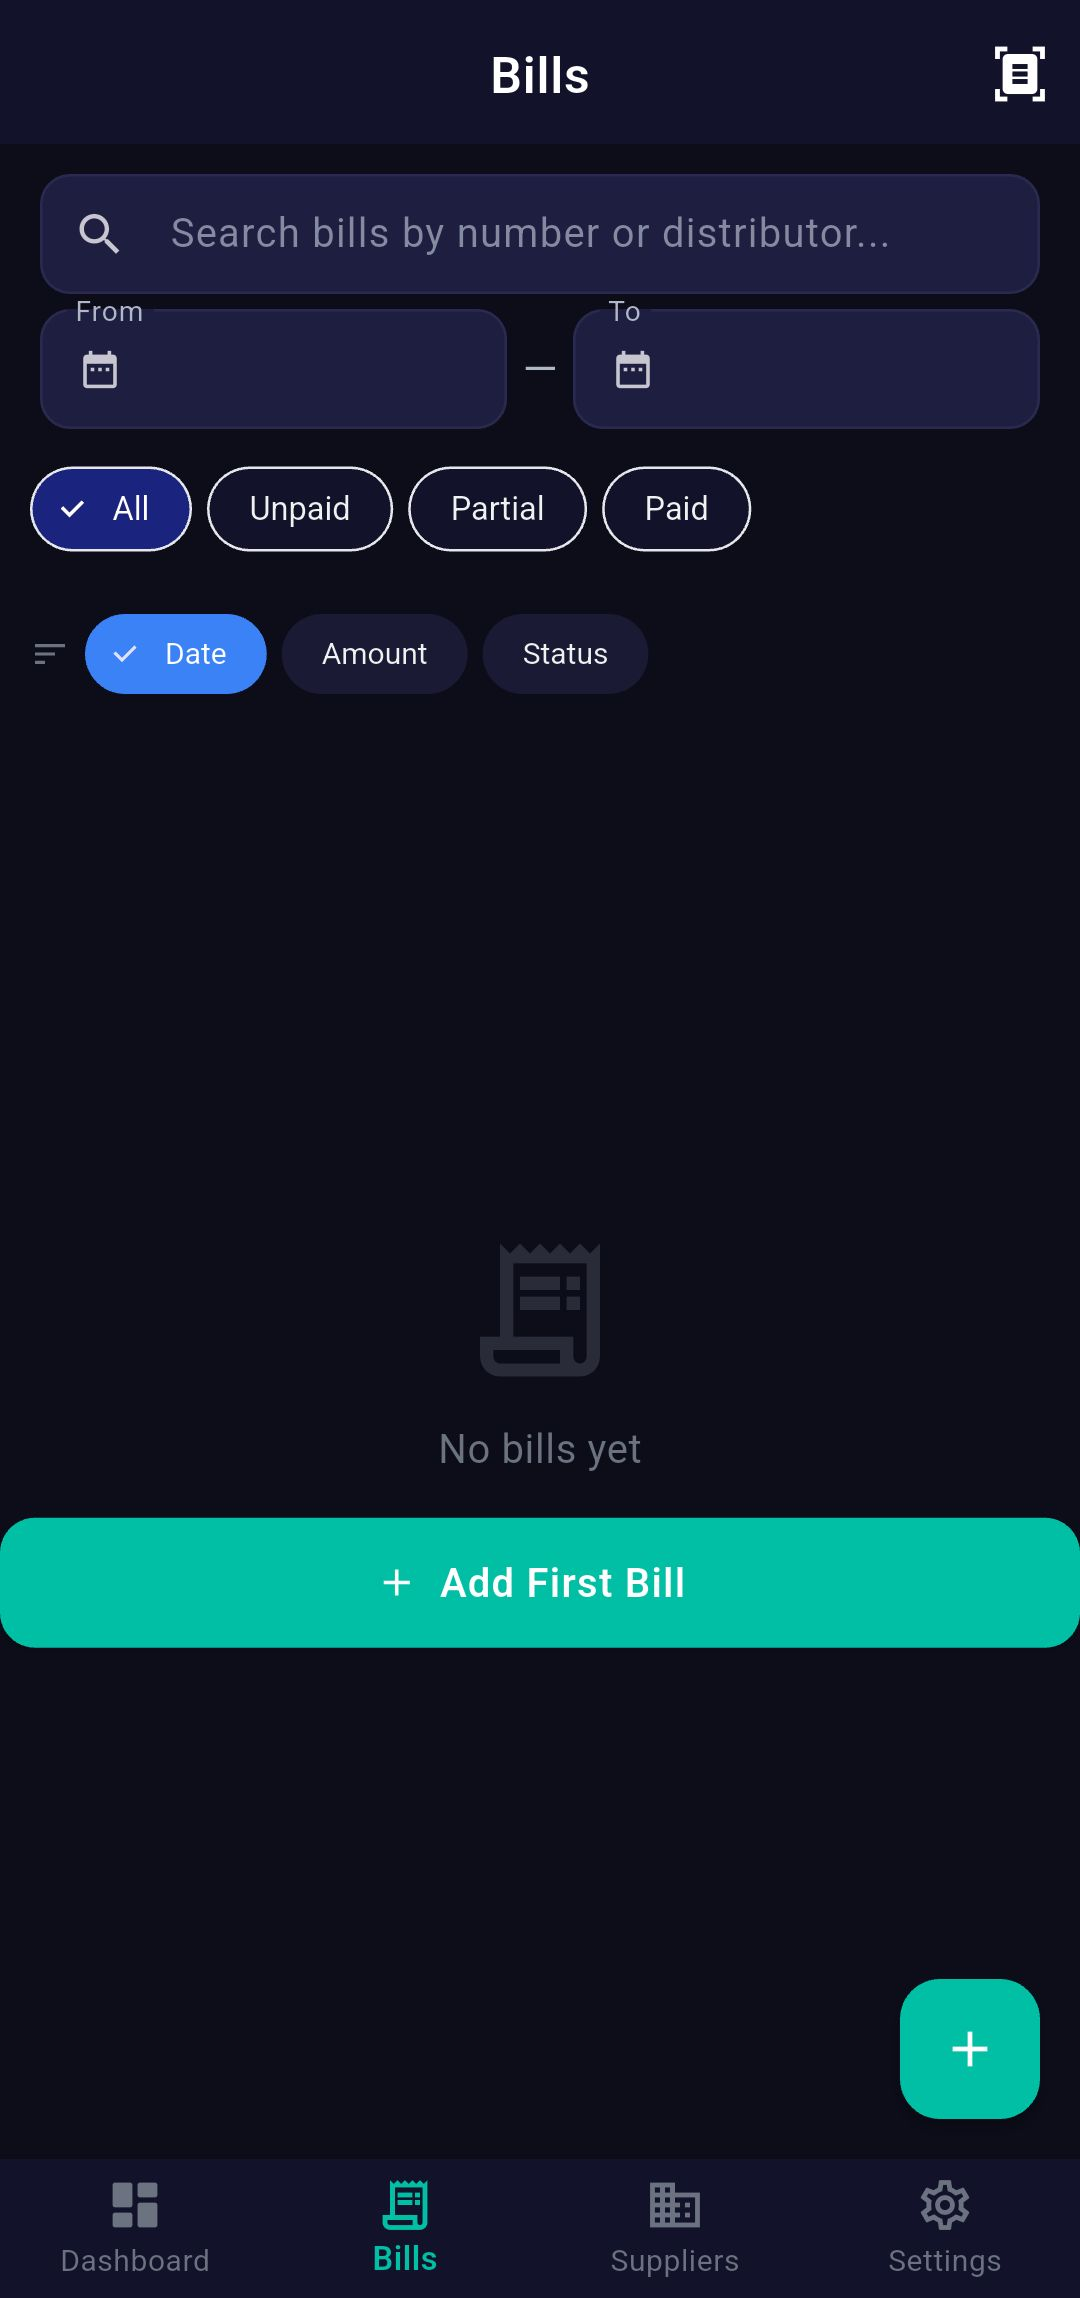
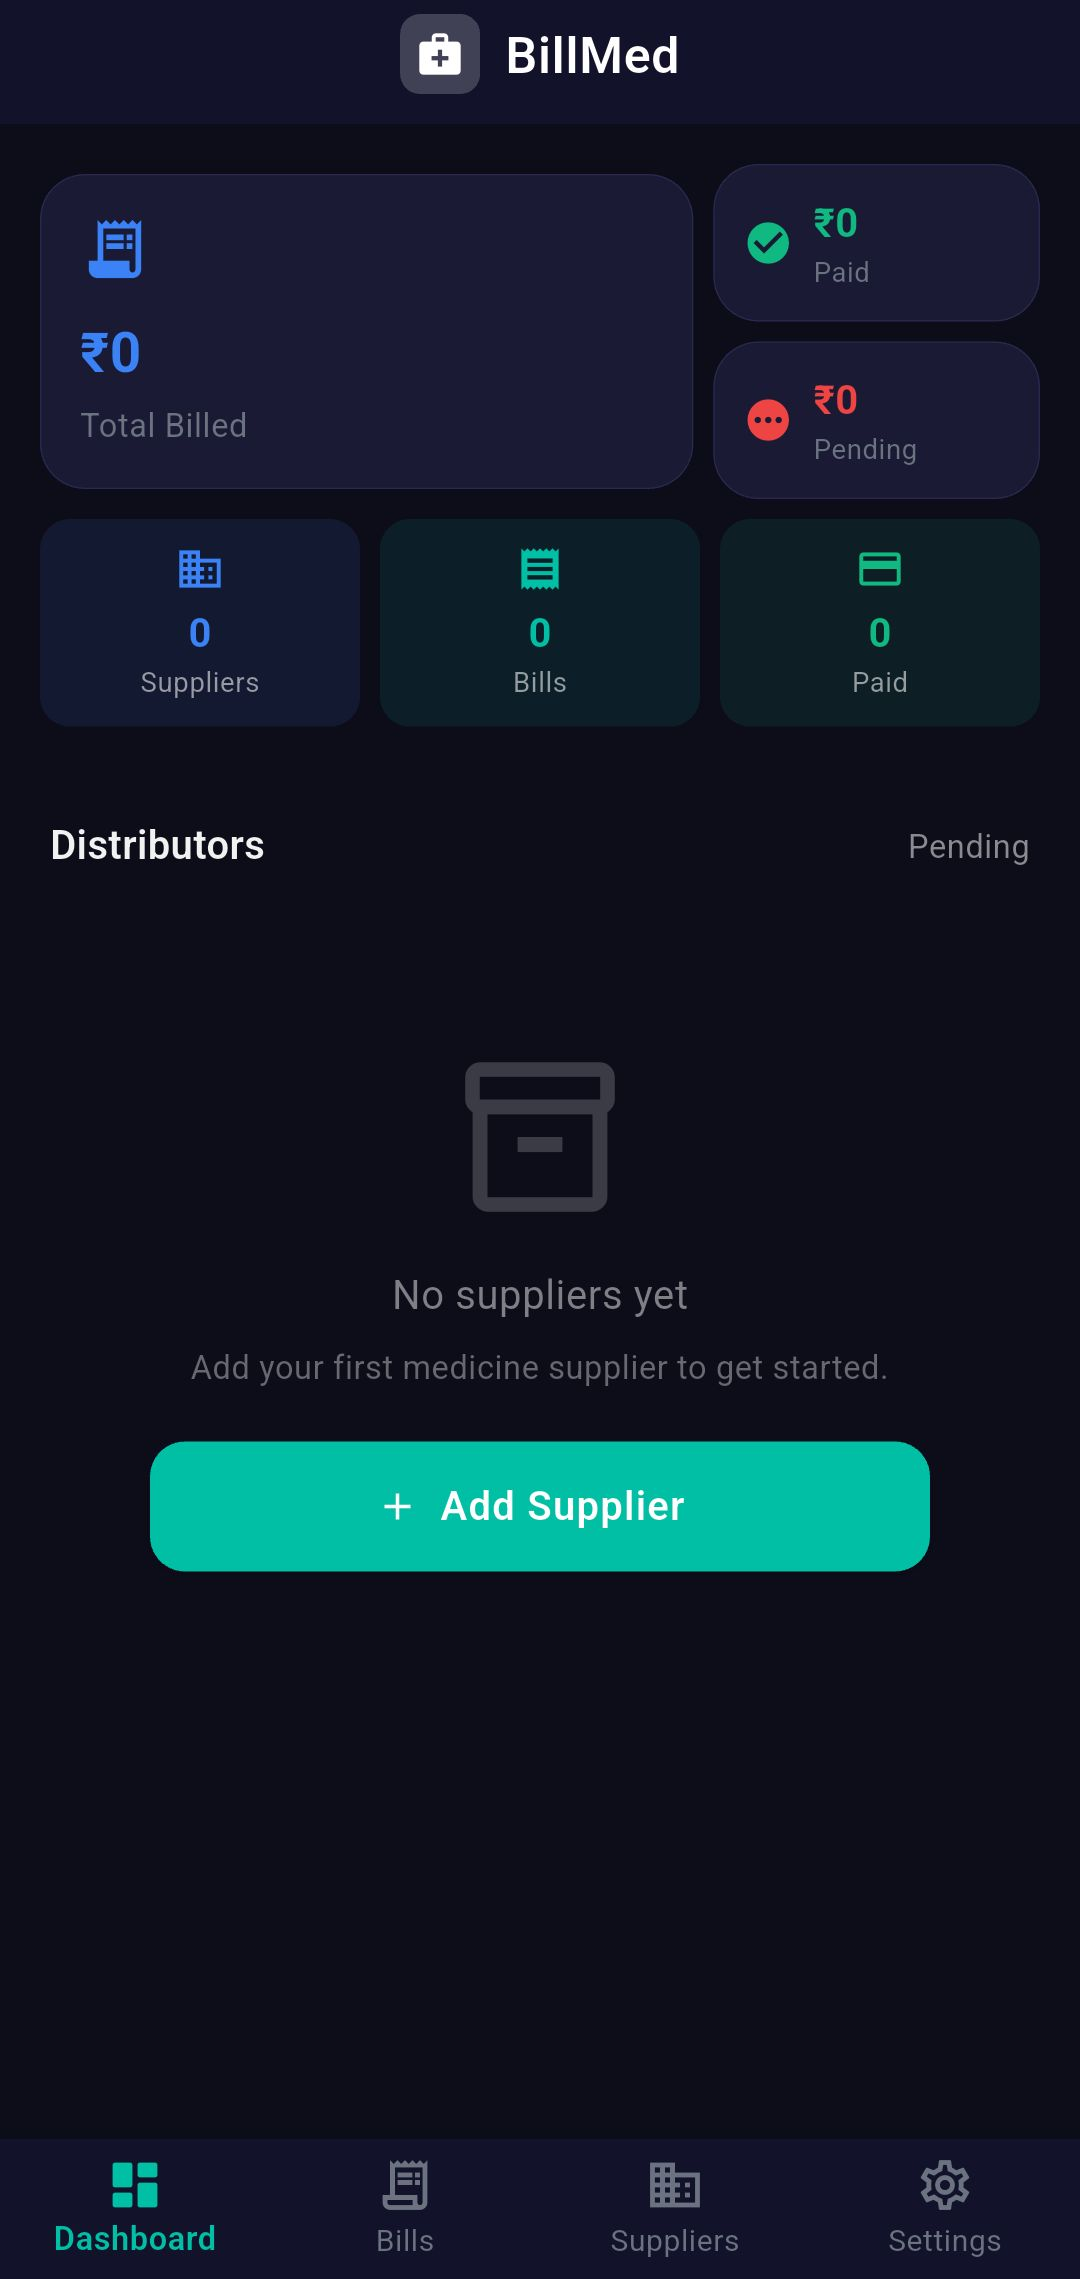
User-named screenshots with proper descriptions

diff --git a/README.md b/README.md
@@ -3,10 +3,10 @@
 > **A production-grade Flutter application for Indian medical shop owners** — manage suppliers, bills, payments, import bank statements, and generate CA-ready financial reports. Fully offline-first with optional AI enhancement.
 
 <p align="center">
-  <img src="screenshots/dashboard.jpeg" width="200" alt="Dashboard"/>
-  <img src="screenshots/bills_list.jpeg" width="200" alt="Bills"/>
-  <img src="screenshots/bank_import.jpeg" width="200" alt="Bank Import"/>
-  <img src="screenshots/ca_export_dialog.jpeg" width="200" alt="CA Report"/>
+  <img src="screenshots/Dashboard.jpeg" width="200" alt="Dashboard"/>
+  <img src="screenshots/Bills.jpeg" width="200" alt="Bills"/>
+  <img src="screenshots/statement.jpeg" width="200" alt="Bank Import"/>
+  <img src="screenshots/Reports.jpeg" width="200" alt="Reports"/>
 </p>
 
 ---
@@ -75,21 +75,22 @@
 ## 📸 Screenshots
 
 <p align="center">
-  <img src="screenshots/dashboard.jpeg" width="180" alt="Dashboard"/>
-  <img src="screenshots/bills_list.jpeg" width="180" alt="Bills List"/>
-  <img src="screenshots/bank_import.jpeg" width="180" alt="Bank Import"/>
+  <img src="screenshots/Dashboard.jpeg" width="180" alt="Dashboard"/>
+  <img src="screenshots/Bills.jpeg" width="180" alt="Bills List"/>
+  <img src="screenshots/statement.jpeg" width="180" alt="Bank Statement"/>
   <img src="screenshots/preview_transactions.jpeg" width="180" alt="Preview Transactions"/>
 </p>
 
 <p align="center">
-  <img src="screenshots/supplier_detail.jpeg" width="180" alt="Supplier Detail"/>
-  <img src="screenshots/reports.jpeg" width="180" alt="Reports"/>
-  <img src="screenshots/ca_export_dialog.jpeg" width="180" alt="CA Report Dialog"/>
-  <img src="screenshots/settings.jpeg" width="180" alt="Settings"/>
+  <img src="screenshots/Suppliers.jpeg" width="180" alt="Suppliers"/>
+  <img src="screenshots/Reports.jpeg" width="180" alt="Reports"/>
+  <img src="screenshots/Scan-Bill.jpeg" width="180" alt="Scan Bill"/>
+  <img src="screenshots/settings-1.jpeg" width="180" alt="Settings"/>
 </p>
 
 <p align="center">
-  <img src="screenshots/add_bill.jpeg" width="180" alt="Add Bill"/>
+  <img src="screenshots/Add-supplier.jpeg" width="180" alt="Add Supplier"/>
+  <img src="screenshots/Settings-2.jpeg" width="180" alt="Settings 2"/>
 </p>
 
 ---